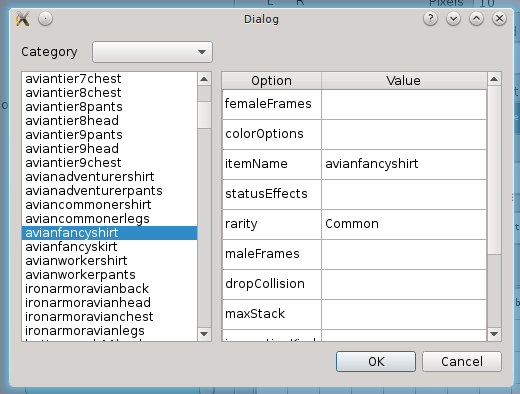
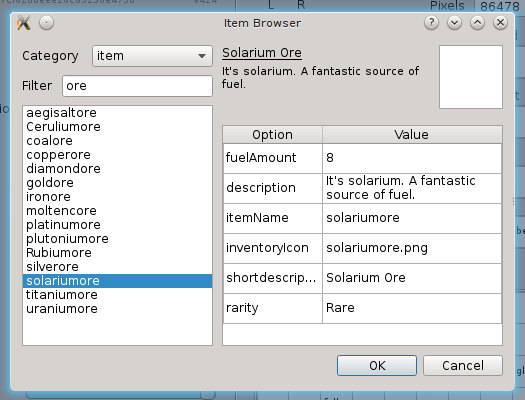
Updates to item browser
Updated ui, added search and category filtering

diff --git a/starcheat/gui.py b/starcheat/gui.py
@@ -2,7 +2,7 @@
 GUI module for starcheat
 """
 
-import sys
+import sys, re
 from PyQt5 import QtCore, QtGui, QtWidgets
 from PyQt5.QtWidgets import QApplication, QDialog, QMainWindow
 from PyQt5.QtWidgets import QFileDialog, QTableWidgetItem
@@ -28,6 +28,8 @@ class MainWindow():
         self.window = QMainWindow()
         self.ui = qt_mainwindow.Ui_MainWindow()
         self.ui.setupUi(self.window)
+
+        self.items = assets.Items()
 
         # populate race combo box
         for race in save_file.race_types:
@@ -71,41 +73,71 @@ class MainWindow():
         """Return an empty bag slot widget."""
         return ItemWidget(save_file.empty_slot())
 
+    # TODO: move to separate class
     def new_item_browser(self):
         dialog = QDialog(self.item_dialog)
         item_browser = qt_itembrowser.Ui_Dialog()
         item_browser.setupUi(dialog)
-        dialog.show()
         self.item_browse_select = ""
 
-        items = assets.Items()
-        all_items = items.get_all_items()
+        for cat in self.items.get_categories():
+            item_browser.category.addItem(cat[0])
+
+        all_items = self.items.get_all_items()
 
         item_browser.items.clear()
         for i in all_items:
             item_browser.items.addItem(i[0])
 
-        def update_item():
-            selected = item_browser.items.selectedItems()[0].text()
-            item = items.get_item(selected)
+        def update_item_view():
+            try:
+                selected = item_browser.items.selectedItems()[0].text()
+            except IndexError:
+                return
+            item = self.items.get_item(selected)
             self.item_browse_select = selected
+            # TODO: update qt objectnames, already not making sense
+            try:
+                item_browser.item_name.setText(item["shortdescription"])
+            except KeyError:
+                item_browser.item_name.setText("Missing short description")
+            try:
+                item_browser.short_desc.setText(item["description"])
+            except KeyError:
+                item_browser.short_desc.setText("Missing description")
             row = 0
             item_browser.info.setRowCount(len(item))
             for key in item:
                 item_browser.info.setItem(row, 0, QTableWidgetItem(key))
                 try:
-                    item_browser.info.setItem(row, 1, QTableWidgetItem(item[key]))
+                    item_browser.info.setItem(row, 1, QTableWidgetItem(str(item[key])))
                 except TypeError:
                     pass
                 row += 1
 
-        item_browser.items.itemSelectionChanged.connect(update_item)
+        def update_item_list():
+            category = item_browser.category.currentText()
+            name = item_browser.filter.text()
+            result = self.items.filter_items(category, name)
+            item_browser.items.clear()
+            for i in result:
+                item_browser.items.addItem(i[0])
+            item_browser.items.setCurrentRow(0)
+
+        item_browser.items.itemSelectionChanged.connect(update_item_view)
+        item_browser.filter.textChanged.connect(update_item_list)
+        item_browser.category.currentTextChanged.connect(update_item_list)
         dialog.accepted.connect(self.write_item_browser)
+
+        item_browser.items.setCurrentRow(0)
+
+        dialog.show()
 
     def write_item_browser(self):
         self.item_edit.item_type.setText(self.item_browse_select)
         self.item_edit.count.setValue(1)
 
+    # TODO: move to separate class
     def new_item_edit(self, bag):
         """Display an item edit dialog for the selected cell in a given bag."""
         self.item_dialog = QDialog(self.window)

diff --git a/starcheat/assets.py b/starcheat/assets.py
@@ -115,3 +115,18 @@ class Items():
         meta = c.fetchone()
         item = parse_json(meta[1])
         return item
+
+    def get_categories(self):
+        c = self.db.cursor()
+        c.execute("select distinct category from items")
+        return c.fetchall()
+
+    def filter_items(self, category, name):
+        if category == "<all>":
+            category = "%"
+        name = "%" + name + "%"
+        c = self.db.cursor()
+        c.execute("select * from items where category like ? and name like ? order by name collate nocase",
+                  (category, name))
+        result = c.fetchall()
+        return result

diff --git a/starcheat/save_file.py b/starcheat/save_file.py
@@ -532,6 +532,8 @@ class PlayerSave():
     def set_wieldable(self, bag):
         self.data["inv"]["wieldable"] = bag
 
+    # TODO: none of these are working if replacing an existing item, they need
+    # to also set themselves in the equipment bag
     def set_head(self, main, glamor):
         self.data["head"] = main
         self.data["head_glamor"] = glamor
